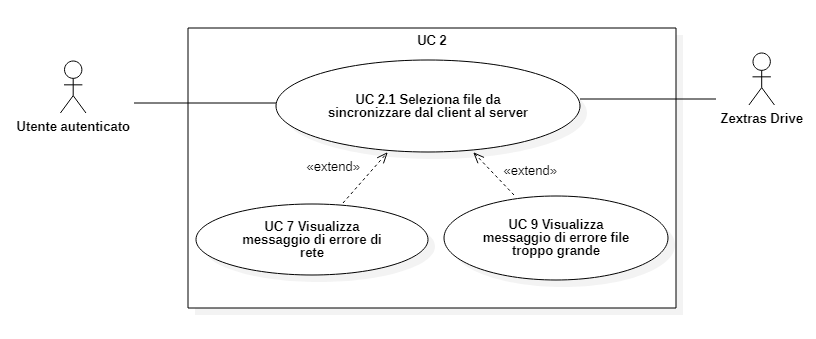
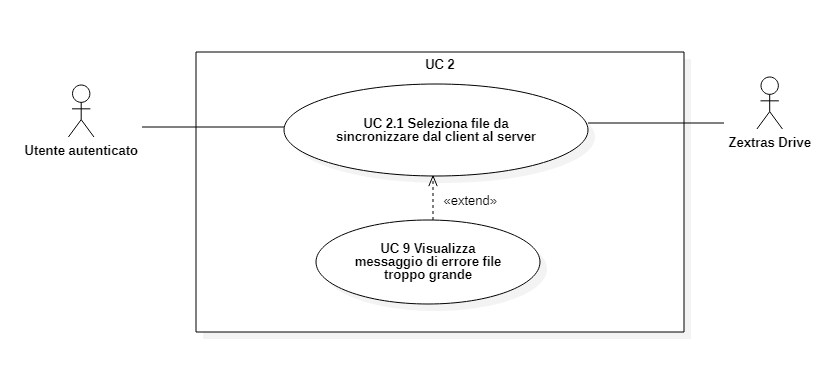
Fix requisiti

diff --git a/Esterni/AnalisiDeiRequisiti/components/requisiti_funzionali.tex b/Esterni/AnalisiDeiRequisiti/components/requisiti_funzionali.tex
@@ -23,14 +23,14 @@ Il gruppo \gruppo{} ha classificato e assegnato i \glo{requisiti} secondo quanto
         RFD02.2  & L'utente deve poter riprendere, dopo aver messo in pausa, la sincronizzazione cominciata precedentemente dal client verso il server & Desiderabile & UC2.1 \\
         RFD02.3  & L'utente deve poter annullare la sincronizzazione dal client verso il server & Desiderabile & UC2.1 \\
 
-        RFO03.0  & L'utente deve poter decidere cosa sincronizzare e cosa ignorare dalle cartelle remote & Obbligatorio & UC2.2 \\
-        RFD03.1  & L'utente deve poter mettere in pausa la sincronizzazione dal server verso il client & Desiderabile & UC2.2 \\
-        RFD03.2  & L'utente deve poter riprendere, dopo una messa in pausa, la sincronizzazione cominciata precedentemente dal server verso il client & Desiderabile & UC2.2 \\
-        RFD03.3  & L'utente deve poter annullare la sincronizzazione dal server verso il client & Desiderabile & UC2.2 \\
+        RFO03.0  & L'utente deve poter decidere cosa sincronizzare e cosa ignorare dalle cartelle remote & Obbligatorio & UC3.1 \\
+        RFD03.1  & L'utente deve poter mettere in pausa la sincronizzazione dal server verso il client & Desiderabile & UC3.1 \\
+        RFD03.2  & L'utente deve poter riprendere, dopo una messa in pausa, la sincronizzazione cominciata precedentemente dal server verso il client & Desiderabile & UC3.1 \\
+        RFD03.3  & L'utente deve poter annullare la sincronizzazione dal server verso il client & Desiderabile & UC3.1 \\
 
         RFO04.0  & La sincronizzazione dei cambiamenti nei documenti deve essere costante sia che essi siano locali o essi siano remoti & Obbligatorio & Capitolato \\
-        RFD05.0  & L'utente deve poter modificare a posteriori i documenti che intende sincronizzare & Desiderabile & UC2.1/UC2.2 \\
-        RFF06.0  & L'utente deve essere in grado di annullare una sincronizzazione già completata & Facoltativo & UC2.1/UC2.2 \\
+        RFD05.0  & L'utente deve poter modificare a posteriori i documenti che intende sincronizzare & Desiderabile & UC2.1/UC3.1 \\
+        RFF06.0  & L'utente deve essere in grado di annullare una sincronizzazione già completata & Facoltativo & UC2.1/UC3.1 \\
         RFO07.0  & L'applicazione deve poter funzionare anche quando è in corso un trasferimento di file & Obbligatorio & Capitolato \\
         RFF08.0  & L'utente deve essere informato tramite notifica delle sincronizzazioni in entrata che riceve dal cloud & Facoltativo & Decisione interna \\
         RFF09.0  & L'utente deve essere in grado di aggiungere un file tramite un menu contestuale & Facoltativo & Decisione interna \\

diff --git a/Esterni/AnalisiDeiRequisiti/components/requisiti_fonte.tex b/Esterni/AnalisiDeiRequisiti/components/requisiti_fonte.tex
@@ -18,19 +18,20 @@
         RFD02.1  & UC2.1 \\
         RFD02.2  & UC2.1 \\
         RFD02.3  & UC2.1 \\
-        RFO03.0  & UC2.2 \\
-        RFD03.1  & UC2.2 \\
-        RFD03.2  & UC2.2 \\
-        RFD03.3  & UC2.2 \\
+        RFO03.0  & UC3.1 \\
+        RFD03.1  & UC3.1 \\
+        RFD03.2  & UC3.1 \\
+        RFD03.3  & UC3.1 \\
         RFO04.0  & Capitolato \\
-        RFD05.0  & UC2.1/UC2.2 \\
-        RFF06.0  & UC2.1/UC2.2 \\
+        RFD05.0  & UC2.1/UC3.1 \\
+        RFF06.0  & UC2.1/UC3.1 \\
         RFO07.0  & Capitolato \\
         RFF08.0  & Decisione interna \\
         RFF09.0  & Decisione interna \\
         RFD10.0  & Decisione interna \\
         RFD11.0  & Decisione interna \\
         RFO12.0  & Capitolato \\
+        RFD13.0  & Decisione interna \\
 
         RVO01    & Capitolato \\
         RVO02    & Capitolato \\

diff --git a/Esterni/AnalisiDeiRequisiti/components/fonte_requisiti.tex b/Esterni/AnalisiDeiRequisiti/components/fonte_requisiti.tex
@@ -15,8 +15,8 @@
 
         UC1 & RFO01.0 \\
         UC2.1 & RFO02.0 \break RFD02.1 \break RFD02.2 \break RFD02.3 \\
-        UC2.2 & RFO03.0 \break RFD03.1 \break RFD03.2 \break RFD03.3 \\
-        UC2.1/UC2.2 & RFD05.0 \break RFF06.0 \\
+        UC3.1 & RFO03.0 \break RFD03.1 \break RFD03.2 \break RFD03.3 \\
+        UC2.1/UC3.1 & RFD05.0 \break RFF06.0 \\
         Capitolato & RFO04.0 \break RFO07.0 \break RFO12.0 \break RVO01 \break RVO02 \break RVO03 \break RVO04 \break RVO05 \break RVO06 \break RVD07 \break RVD08 \\
         Decisione interna & RFF08.0 \break RFF09.0 \break RFD10.0 \break RFD11.0 \break RQO01 \break RQO02 \break RQO03 \break RQO04 \break RQD05 \break RQD06 \\
         Dominio & RVD09 \\

diff --git a/Esterni/AnalisiDeiRequisiti/components/requisiti.tex b/Esterni/AnalisiDeiRequisiti/components/requisiti.tex
@@ -35,8 +35,8 @@ Dato che l'applicazione lavora con file locali presenti all'interno del computer
         \toprule
         \endhead
 
-        Funzionale    & 5 & 3 & 9 & 17 \\
-        Di vincolo    & 7 & 0 & 3 & 10 \\
+        Funzionale    & 5 & 3 & 10 & 18 \\
+        Di vincolo    & 6 & 0 & 3 & 9 \\
         Di qualità    & 4 & 0 & 2 & 6 \\
         \bottomrule
         \hiderowcolors

diff --git a/Esterni/AnalisiDeiRequisiti/components/uc/uc2.tex b/Esterni/AnalisiDeiRequisiti/components/uc/uc2.tex
@@ -29,7 +29,6 @@
     \end{enumerate}
 \item \textbf{Estensioni:}
     \begin{itemize}
-    \item Visualizza messaggio di errore di rete (UC7 \S{}\ref{UC7});
     \item Visualizza messaggio di errore file troppo grande (UC9 \S{}\ref{UC9}).
     \end{itemize}
 \end{itemize}
